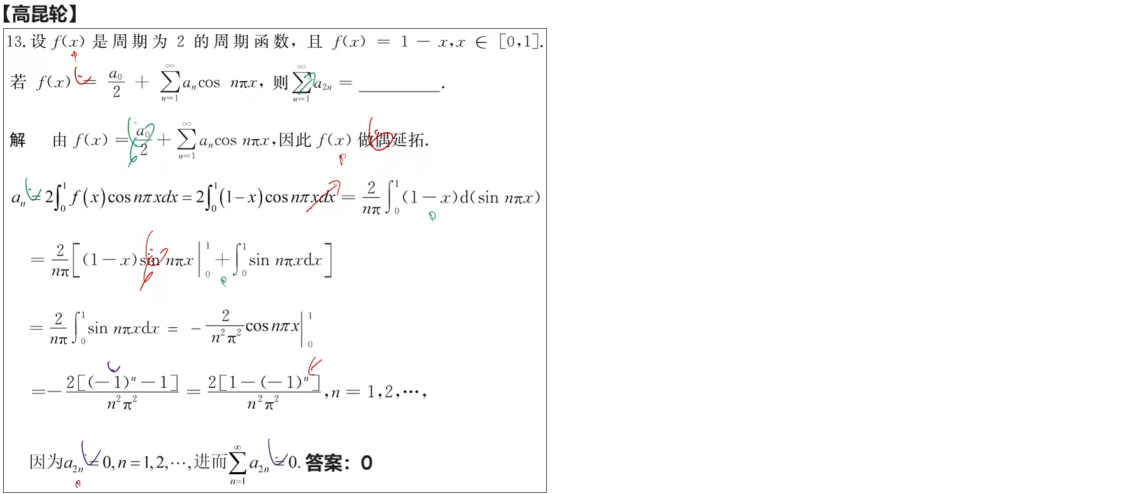
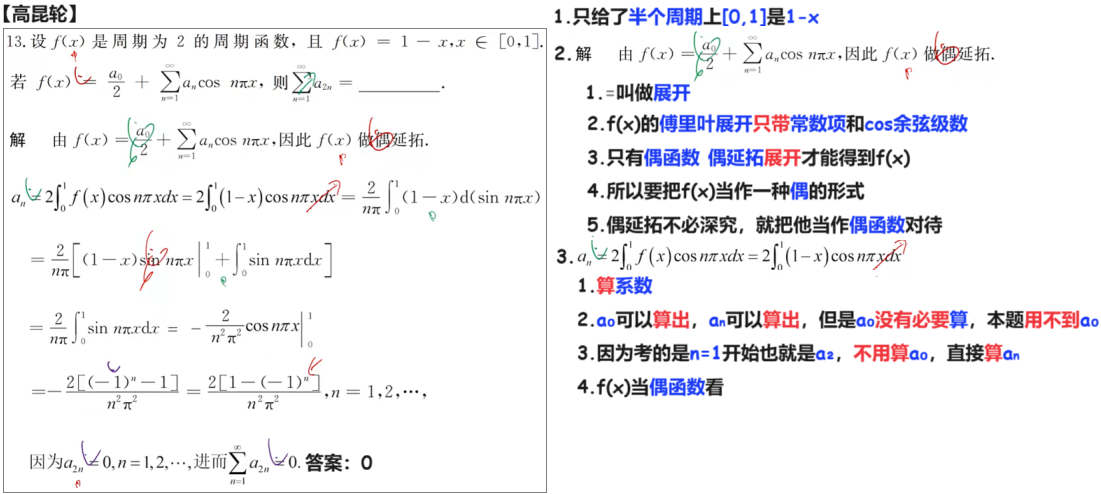
240428

diff --git a/01 高数/02 知识点/00 24张宇高数18讲/16 第16讲 无穷级数/07 傅里叶级数 240428/02 Doc.md b/01 高数/02 知识点/00 24张宇高数18讲/16 第16讲 无穷级数/07 傅里叶级数 240428/02 Doc.md
@@ -1,0 +1,4 @@
+# 傅里叶级数
+
+
+
